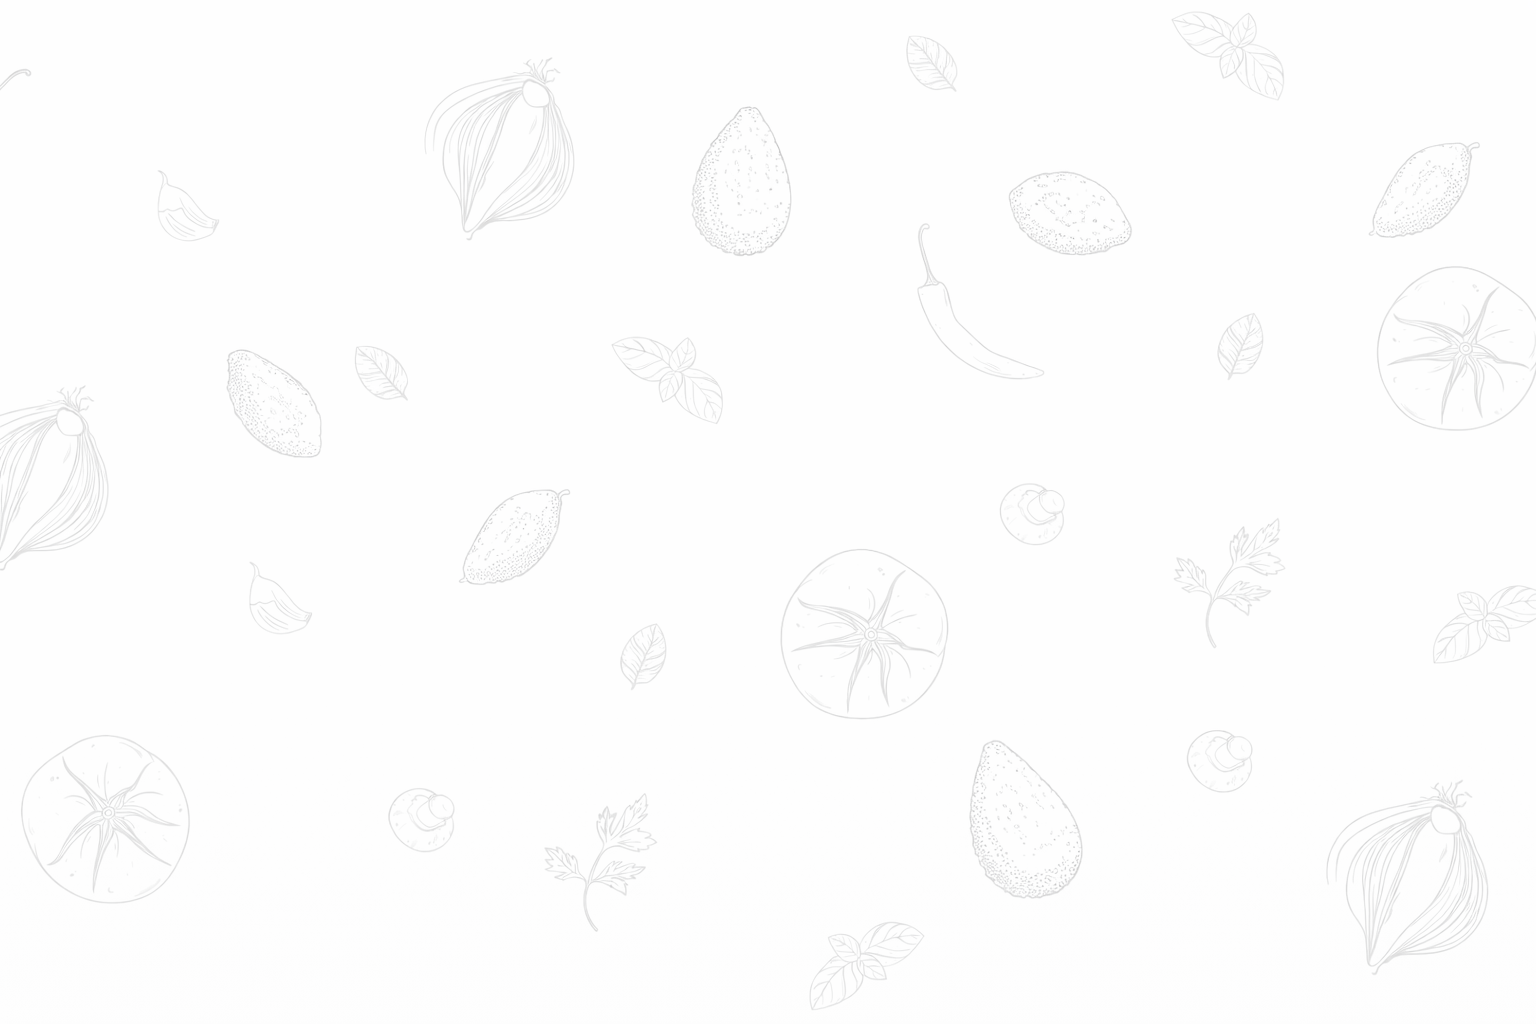
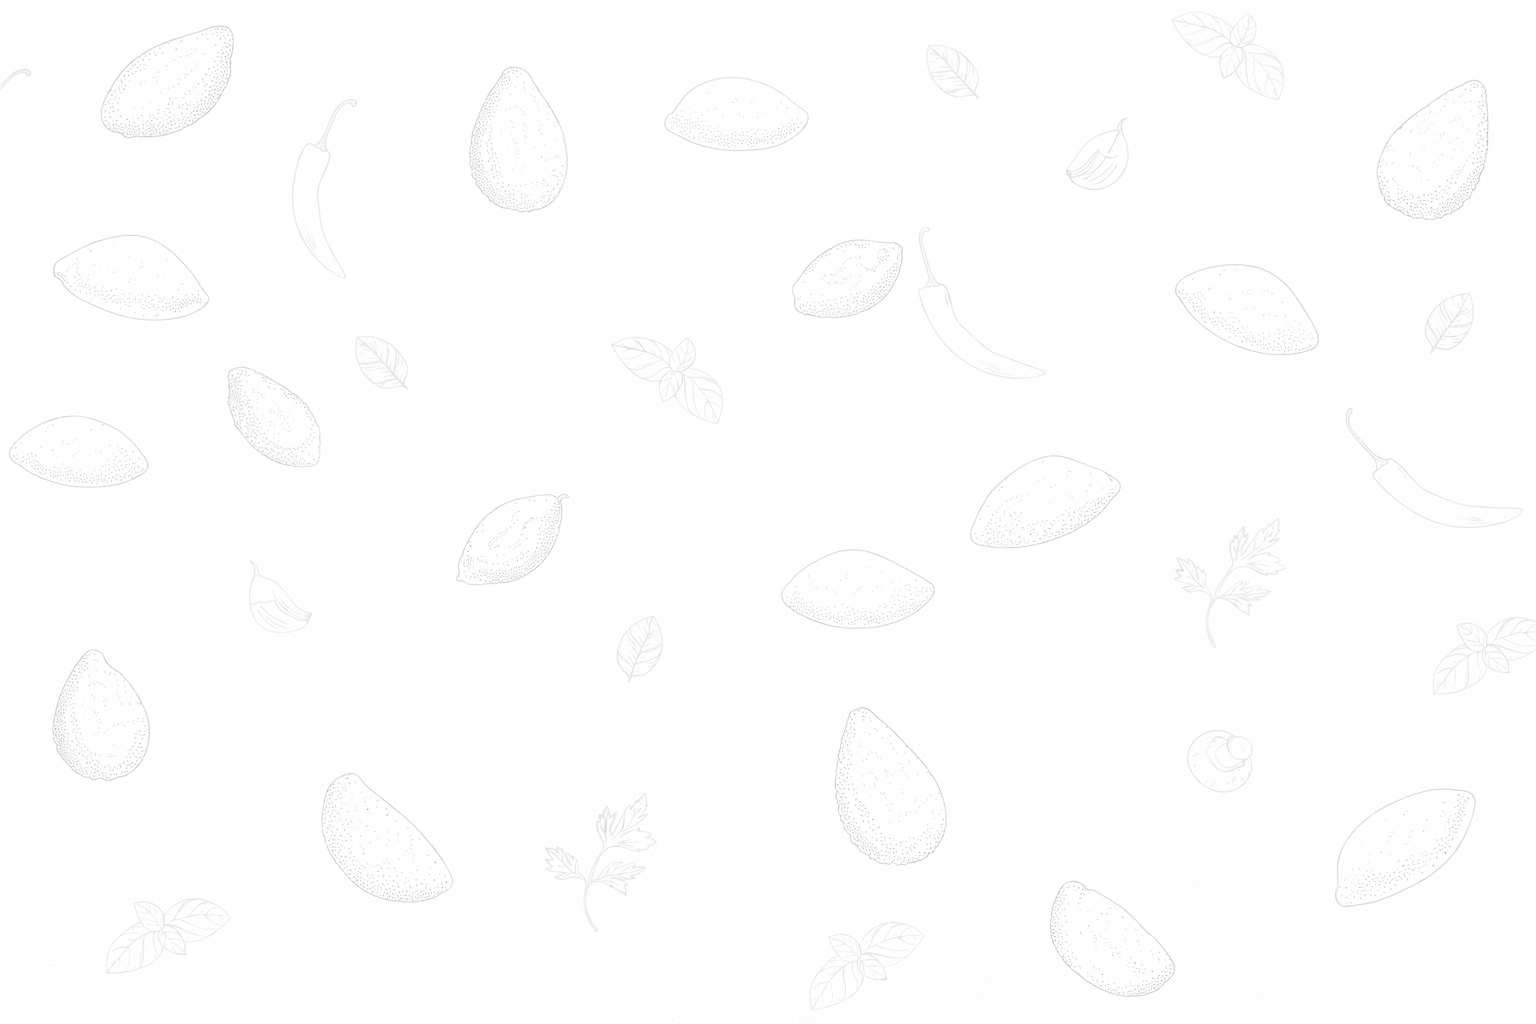
adiciona fundo

diff --git a/salgados-site/src/components/home/ProductHighlightsSection.tsx b/salgados-site/src/components/home/ProductHighlightsSection.tsx
@@ -5,6 +5,7 @@ import miniSalgadosImage from "@/assets/mini-salgados.jpg";
 import salgados70gImage from "@/assets/salgados-70g.jpg";
 import paoQueijoImage from "@/assets/pao-queijo.jpg";
 import miniChurrosImage from "@/assets/churros.webp";
+import fundoParalax from "@/assets/fundo_paralax.jpg";
 
 const highlights = [
   {
@@ -31,7 +32,16 @@ const highlights = [
 
 export function ProductHighlightsSection() {
   return (
-    <section className="section-padding">
+    <section
+      className="section-padding"
+      style={{
+        backgroundAttachment: "fixed",
+        backgroundImage: `url(${fundoParalax})`,
+        backgroundPosition: "center",
+        backgroundRepeat: "no-repeat",
+        backgroundSize: "cover",
+      }}
+    >
       <div className="section-container space-y-12">
         <div className="flex flex-col gap-6 lg:flex-row lg:items-end lg:justify-between">
           <div className="max-w-3xl">

diff --git a/salgados-site/src/components/home/GoogleReviewsSection.tsx b/salgados-site/src/components/home/GoogleReviewsSection.tsx
@@ -8,6 +8,7 @@ import {
   shouldFetchGoogleReviews,
   type GoogleReview,
 } from "@/lib/google-reviews";
+import fundoParalax from "@/assets/fundo_paralax.jpg";
 
 function renderStars(rating: number) {
   return Array.from({ length: 5 }, (_, index) => (
@@ -65,7 +66,16 @@ export function GoogleReviewsSection() {
     "https://maps.google.com/";
 
   return (
-    <section className="section-padding">
+    <section
+      className="section-padding"
+      style={{
+        backgroundAttachment: "fixed",
+        backgroundImage: `url(${fundoParalax})`,
+        backgroundPosition: "center",
+        backgroundRepeat: "no-repeat",
+        backgroundSize: "cover",
+      }}
+    >
       <div className="section-container">
         <div className="brand-panel overflow-hidden p-8 md:p-10">
           <div className="mb-10 flex flex-col gap-6 lg:flex-row lg:items-end lg:justify-between">
